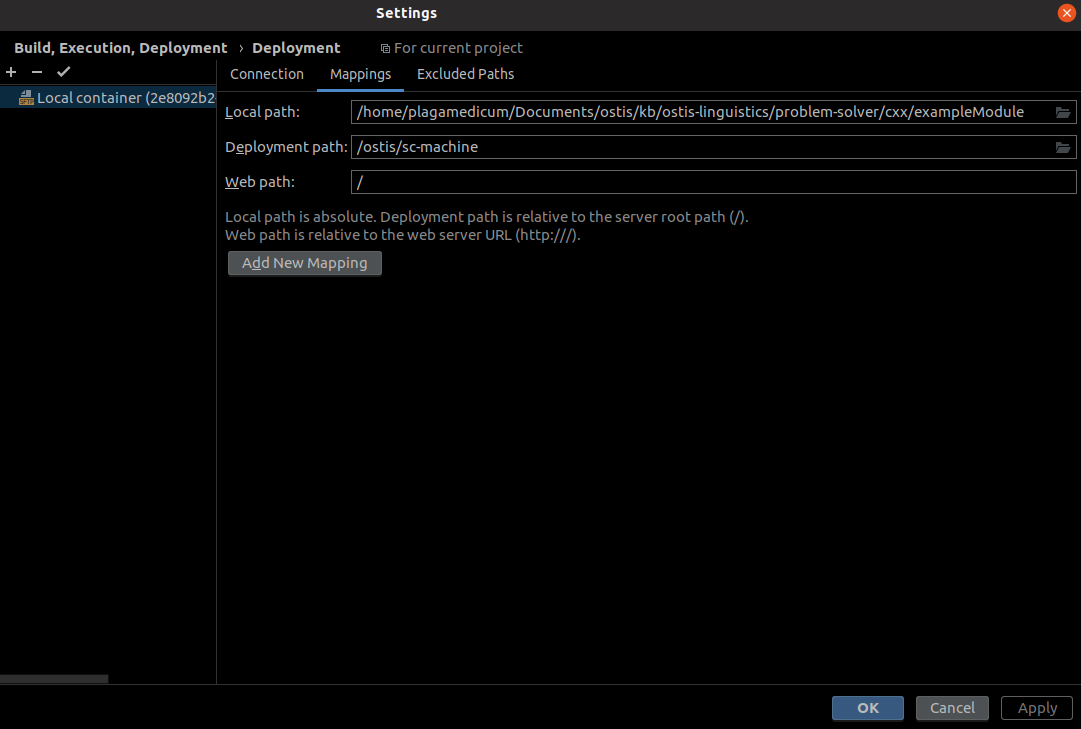
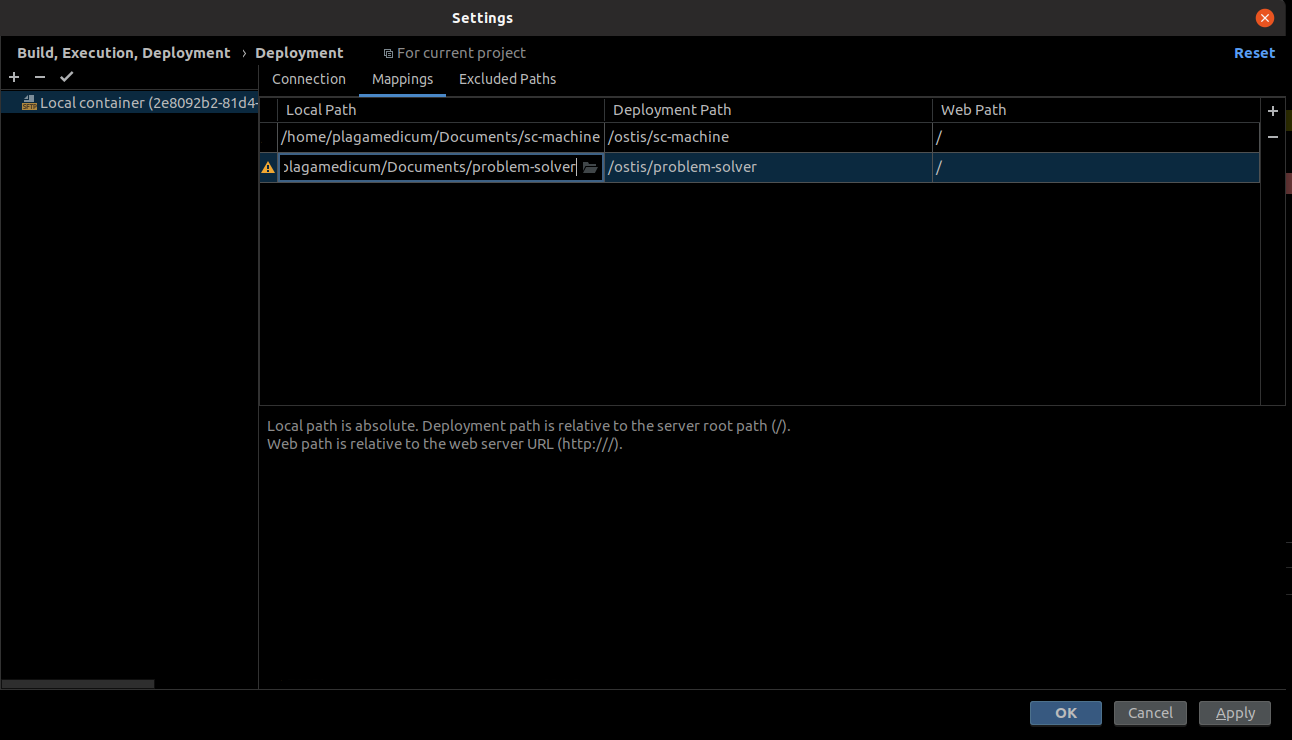
Update README

diff --git a/README.md b/README.md
@@ -80,12 +80,12 @@ Run script has additional useful options comparing to Quickstart section. To run
     run.sh --help
     ```
 OPTIONS:
-  `--help -h` - Print help message
-  `--port -p` - Set a custom port
-  `--app` - Set a custom path to the app directory(By default, it is expected, that inside the app you have all default directories for kb, problem-solver etc)
-  `--kb` - Set a custom path to kb directory
-  `--solver` - Set a custom path to problem-solvers deirectory
-  `--startflags --sf` - To set container startup flags(using `--all` by default). Usage: `--startflags "[OSTIS FLAGS]"`
+    `--help -h` - Print help message
+    `--port -p` - Set a custom port
+    `--app` - Set a custom path to the app directory(By default, it is expected, that inside the app you have all default directories for kb, problem-solver etc)
+    `--kb` - Set a custom path to kb directory
+    `--solver` - Set a custom path to problem-solvers deirectory
+    `--startflags --sf` - To set container startup flags(using `--all` by default). Usage: `--startflags "[OSTIS FLAGS]"`
     Example of usage:
     ```bash
     ./run.sh --app ~/ostis-example-app
@@ -106,43 +106,57 @@ To build image locally you will need:
 
 ## CLion Integration
 
+### Environement
+1. Clone sc-machine repo
+```bash
+git clone --single-branch --branch 0.5.0 https://github.com/ShunkevichDV/sc-machine.git
+```
+1. Add problem-solver folder with your agents beside the sc-machine's folder.
+![folders](./img/clion/folders.png) 
+1. Add `SET(CMAKE_BUILD_TYPE Debug)` at the end of `CMakeLists.txt` of your module.
+![cmake of example module](./img/clion/cmake_file.png) 
+
 ### Workflow with configured CLion
 1. Build clion debug image(Don't forget to do this every time you update the repository):
-```bash
-./build_clion_debug_image.sh
-```
+    ```bash
+    ./clion_debug/build_clion_debug_image.sh
+    ```
 1. Run clion debug container with needed options:
     ```bash
-    run_clion_debug.sh [OPTIONS]
+    ./clion_debug/run_clion_debug.sh [OPTIONS]
     ```
     See flags with
     ```bash
-    run_clion_debug.sh --help
+    ./clion_debug/run_clion_debug.sh --help
     ```
 OPTIONS:
-  `--help -h` - Print help message
-  `--port -p` - Set a custom port
-  `--app` - Set a custom path to the app directory(By default, it is expected, that inside the app you have all default directories for kb, problem-solver etc)
-  `--kb` - Set a custom path to kb directory
-  `--solver` - Set a custom path to problem-solvers deirectory
-  `--startflags --sf` - To set container startup flags(using `--build_kb --sc-web` by default). Usage: `--startflags "[OSTIS FLAGS]"`  
+    `--help -h` - Print help message
+    `--port -p` - Set a custom port
+    `--app` - Set a custom path to the app directory(By default, it is expected, that inside the app you have all default directories for kb, problem-solver etc)
+    `--kb` - Set a custom path to kb directory
+    `--solver` - Set a custom path to problem-solvers deirectory
+    `--startflags --sf` - To set container startup flags(using `--build_kb --sc-web` by default). Usage: `--startflags "[OSTIS FLAGS]"`  
 1. Debug your code!(See project configuration below)
 1. After finishing your work stop and remove debug container:
     ```bash
-    ./stop_clion_debug.sh
+    ./clion_debug/stop_clion_debug.sh
     ```
 
 ### Configuring CLion
 1. Add toolchain in __Settings/Preferences | Build, Execution, Deployment | Toolchains__ adding new ssh connection.
-![toolchain config](./img/clion/toolchains.png)  
+![toolchain config](./img/clion/toolchains.png) 
 ![ssh config](./img/clion/ssh_config.png)
 1. Add mew CMake profile for container in __Settings/Preferences | Build, Execution, Deployment | CMake__.
 ![CMake profile](./img/clion/cmake.png)
-1. Configure container's deployment connection and folders mapping in __Settings/Preferences | Build, Execution, Deployment | Deployment__
+1. Configure container's deployment connection and folders mapping in __Settings/Preferences | Build, Execution, Deployment | Deployment__.
 ![Deployment connection](./img/clion/deployment_connection.png)
 ![Deployment folders mappings](./img/clion/deployment_mappings.png)
-1. Update cmake project. After successfully updating your cmake you'll see sc-machine running configurations.
-1. Update sctp-server debug config
+1. Update CMake project.
+![Update CMake project](./img/clion/cmake_reload.png)
+1. After successfully updating your cmake you'll see sc-machine running configurations and problem-solver folder module.
+1. Add make_all configuration for rebuilding sc-machine inside the container and update local dependencies.
+![make_all script adding](./img/clion/make_all.png)
+1. Update sctp-server debug configuration with dependencies and make_all script.
 ![sctp-server debug config](./img/clion/sctp_config.png)
 1. Add breakpoints and start working!
 
